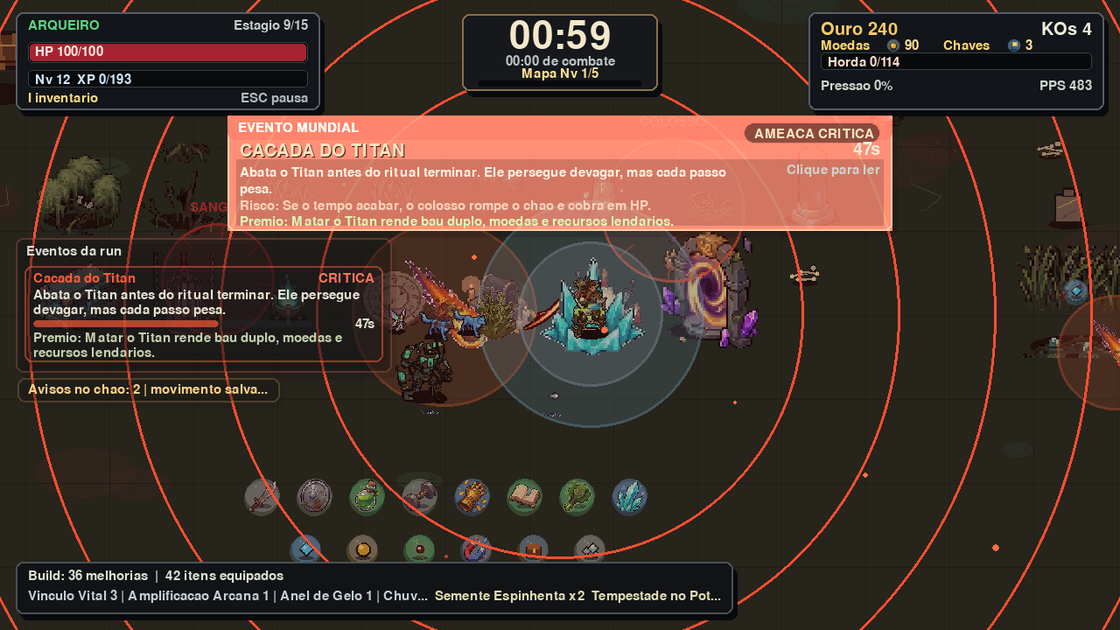
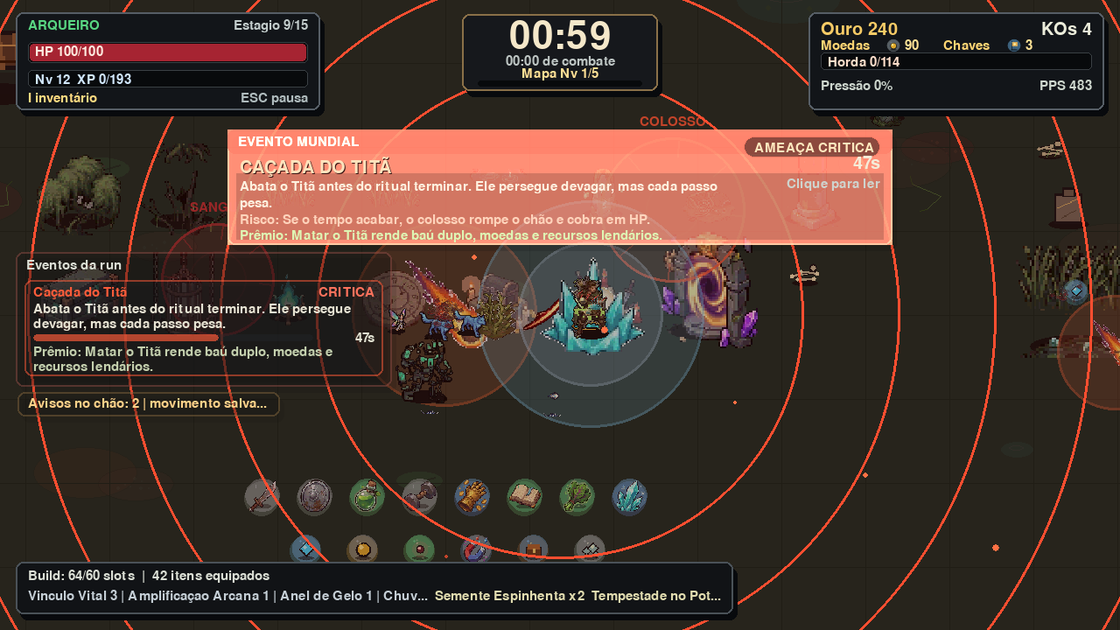
Refresh public v1.1 release presentation

Changed region(s): [[0.0, 0.181, 0.8125, 0.6635], [0.0625, 0.9048, 0.25, 0.9349], [0.0625, 0.1508, 0.0938, 0.181]]

diff --git a/README.md b/README.md
@@ -23,6 +23,21 @@ Esta versão melhora a leitura e o ritmo da run, com saída de dungeon mais fác
 de localizar, Berserker mais inteligente, limite de build em 60 slots únicos e
 mais proteção para as lendárias da classe.
 
+### O que mudou na 1.1
+
+- **Textos revisados:** menus, eventos, vendedor, inventário, level-up e tela de
+  morte passaram por revisão de ortografia e acentuação.
+- **Berserker mais inteligente:** o Guerreiro caça melhor, evita ativar em
+  momentos vazios e pressiona criaturas grandes com mais decisão.
+- **Dungeons mais legíveis:** a saída ficou maior, mais brilhante e mais fácil
+  de encontrar quando a tela está cheia de monstros.
+- **Build mais controlada:** o limite agora é de 60 slots únicos; melhorar uma
+  habilidade já escolhida não ocupa novos slots.
+- **Lendárias protegidas:** o limite de build reserva espaço para as lendárias
+  da própria classe.
+- **Pasta de jogador limpa:** a build vem com executável, atalho, ícone e
+  `LEIA-ME.txt`, sem arquivos de desenvolvimento.
+
 ## Preview
 
 ![Gameplay preview](media/gameplay-preview.gif)
@@ -39,7 +54,7 @@ mais proteção para as lendárias da classe.
 
 | Arqueiro | Invocador |
 | --- | --- |
-| ![Arqueiro em combate](media/screenshots/archer-field.png) | ![Invocador em evento titanico](media/screenshots/summoner-titan-event.png) |
+| ![Arqueiro em combate](media/screenshots/archer-field.png) | ![Invocador em evento titânico](media/screenshots/summoner-titan-event.png) |
 
 | Level-up | Vendedor |
 | --- | --- |
@@ -68,14 +83,14 @@ https://github.com/Leninn-Marinho-Rodrigues/lendas-contra-hordas/releases/downlo
 
 1. Clique no link de download acima.
 2. Aguarde o arquivo `.zip` baixar. Ele tem cerca de 412 MB.
-3. Clique com o botao direito no arquivo baixado e escolha **Extrair tudo**.
-4. Abra a pasta extraida.
+3. Clique com o botão direito no arquivo baixado e escolha **Extrair tudo**.
+4. Abra a pasta extraída.
 5. Dê dois cliques em `Jogar Lendas Contra Hordas.lnk`.
 6. Se o atalho não abrir no seu Windows, execute `LendasContraHordas.exe`.
 
-Se o Windows mostrar aviso do SmartScreen, clique em **Mais informacoes** e
+Se o Windows mostrar aviso do SmartScreen, clique em **Mais informações** e
 depois em **Executar mesmo assim**. Isso pode acontecer porque a build de teste
-ainda nao possui assinatura digital.
+ainda não possui assinatura digital.
 
 ### Como atualizar sem perder progresso
 
@@ -98,15 +113,15 @@ app_icon.ico
 
 Não é necessário instalar Python, abrir terminal ou baixar arquivos paralelos.
 
-### Baixar pela pagina de Releases
+### Baixar pela página de Releases
 
-Tambem da para baixar pela pagina da release:
+Também dá para baixar pela página da release:
 
 ```text
 https://github.com/Leninn-Marinho-Rodrigues/lendas-contra-hordas/releases/tag/v1.1
 ```
 
-Nessa pagina, abra a area **Assets** e baixe:
+Nessa página, abra a área **Assets** e baixe:
 
 ```text
 LendasContraHordas-Windows-v1.1.zip
@@ -124,45 +139,45 @@ LendasContraHordas-Windows-v1.1.zip
 
 ## Feedback dos jogadores
 
-Se voce testar o jogo, seu feedback ajuda muito.
+Se você testar o jogo, seu feedback ajuda muito.
 
 ### Como enviar feedback pelo GitHub
 
-1. Entre na pagina de feedback:
+1. Entre na página de feedback:
 
 ```text
 https://github.com/Leninn-Marinho-Rodrigues/lendas-contra-hordas/issues
 ```
 
-2. Clique no botao verde **New issue**.
+2. Clique no botão verde **New issue**.
 3. Escolha um modelo:
 
-- **Playtest feedback**: conte como foi sua experiencia jogando.
+- **Playtest feedback**: conte como foi sua experiência jogando.
 - **Bug report**: relate travamentos, erros, textos cortados ou sprites estranhos.
-- **Sugestao**: mande ideias de habilidades, monstros, balanceamento ou melhorias.
+- **Sugestão**: mande ideias de habilidades, monstros, balanceamento ou melhorias.
 
 4. Preencha os campos do modelo.
-5. Se puder, anexe print ou video curto arrastando o arquivo para a caixa de texto.
+5. Se puder, anexe print ou vídeo curto arrastando o arquivo para a caixa de texto.
 6. Clique em **Submit new issue**.
 
 ### O que escrever no feedback
 
-O feedback mais util costuma responder:
+O feedback mais útil costuma responder:
 
-- qual classe voce jogou;
+- qual classe você jogou;
 - quanto tempo sobreviveu;
-- se o jogo ficou facil, dificil ou confuso;
+- se o jogo ficou fácil, difícil ou confuso;
 - se algum texto ficou cortado;
 - se algum sprite, som ou efeito pareceu estranho;
-- prints ou videos curtos, se puder mandar.
+- prints ou vídeos curtos, se puder mandar.
 
 Exemplo simples:
 
 ```text
 Joguei de Mago por 9 minutos no mapa inicial.
-Gostei das magias e dos efeitos, mas achei a dungeon comum dificil cedo demais.
+Gostei das magias e dos efeitos, mas achei a dungeon comum difícil cedo demais.
 O texto do evento ficou um pouco grande na tela.
-Nao travou no meu PC.
+Não travou no meu PC.
 ```
 
 Guia completo:
@@ -173,15 +188,15 @@ https://github.com/Leninn-Marinho-Rodrigues/lendas-contra-hordas/blob/main/docs/
 
 ## Apoie o projeto
 
-Lendas contra Hordas esta sendo feito por uma pessoa so, no tempo livre. Se
-voce gostou do projeto e quiser ajudar a manter as atualizacoes, pode apoiar via
+Lendas contra Hordas está sendo feito por uma pessoa só, no tempo livre. Se
+você gostou do projeto e quiser ajudar a manter as atualizações, pode apoiar via
 Pix:
 
 ```text
 leninn.works@gmail.com
 ```
 
-Qualquer apoio ajuda com tempo de desenvolvimento, testes, arte, audio,
+Qualquer apoio ajuda com tempo de desenvolvimento, testes, arte, áudio,
 ferramentas e futuras builds.
 
 ## Status

diff --git a/docs/como-dar-feedback.md b/docs/como-dar-feedback.md
@@ -2,7 +2,7 @@
 
 Obrigado por testar **Lendas contra Hordas**.
 
-O jogo ainda esta em desenvolvimento, entao feedback de jogadores ajuda muito a
+O jogo ainda está em desenvolvimento, então feedback de jogadores ajuda muito a
 decidir o que melhorar primeiro.
 
 ## Onde mandar feedback
@@ -17,23 +17,23 @@ https://github.com/Leninn-Marinho-Rodrigues/lendas-contra-hordas/issues
 
 1. Abra o link de Issues.
 2. Clique em **New issue**.
-3. Escolha um dos modelos disponiveis.
+3. Escolha um dos modelos disponíveis.
 4. Escreva seu relato.
-5. Anexe prints ou videos se tiver.
+5. Anexe prints ou vídeos se tiver.
 6. Clique em **Submit new issue**.
 
 ## Qual modelo escolher?
 
 ### Playtest feedback
 
-Use quando voce jogou uma partida e quer contar como foi a experiencia.
+Use quando você jogou uma partida e quer contar como foi a experiência.
 
 Exemplos:
 
-- "Achei o inicio muito facil."
-- "A dungeon ficou dificil demais."
+- "Achei o início muito fácil."
+- "A dungeon ficou difícil demais."
 - "Gostei do Guerreiro, mas o Mago pareceu fraco."
-- "O evento titanico foi legal, mas nao entendi o objetivo."
+- "O evento titânico foi legal, mas não entendi o objetivo."
 
 ### Bug report
 
@@ -42,16 +42,16 @@ Use quando algo quebrou, travou ou parece errado.
 Exemplos:
 
 - jogo fechou sozinho;
-- sprite ficou invisivel;
+- sprite ficou invisível;
 - texto ficou cortado;
 - som estourou;
-- botao nao funcionou;
-- item nao fez efeito;
+- botão não funcionou;
+- item não fez efeito;
 - habilidade mostrou icone errado.
 
-### Sugestao
+### Sugestão
 
-Use quando voce tem uma ideia nova.
+Use quando você tem uma ideia nova.
 
 Exemplos:
 
@@ -61,7 +61,7 @@ Exemplos:
 - ajuste de dificuldade;
 - melhoria de HUD;
 - ideia para dungeon;
-- melhoria de som ou musica.
+- melhoria de som ou música.
 
 ## O que mais ajuda no feedback?
 
@@ -87,13 +87,13 @@ Tempo: 11 minutos
 Gostei bastante das flechas ricocheteando e dos drops.
 Achei que depois de 8 minutos veio monstro demais de uma vez.
 O evento da Lua Vermelha ficou legal, mas a tela ficou carregada.
-Nao tive travamento.
+Não tive travamento.
 
-Sugestao: deixar o aviso do evento aparecer 2 segundos antes dos monstros
-ficarem mais rapidos.
+Sugestão: deixar o aviso do evento aparecer 2 segundos antes dos monstros
+ficarem mais rápidos.
 ```
 
-## Como anexar print ou video
+## Como anexar print ou vídeo
 
 Na tela de escrever a Issue, arraste o arquivo para dentro da caixa de texto.
 O GitHub faz o upload automaticamente e coloca o link no comentario.
@@ -107,17 +107,17 @@ Prints que ajudam:
 - tela de vendedor;
 - erro do Windows, se aparecer.
 
-Videos curtos tambem ajudam muito quando o problema envolve movimento,
+Vídeos curtos também ajudam muito quando o problema envolve movimento,
 travamento, habilidade ou som.
 
-## Se voce nao tiver conta no GitHub
+## Se você não tiver conta no GitHub
 
-Voce pode mandar o feedback para quem te enviou o jogo e pedir para a pessoa
+Você pode mandar o feedback para quem te enviou o jogo e pedir para a pessoa
 abrir uma Issue no GitHub com seu relato.
 
 ## Apoio ao projeto
 
-O jogo e feito por uma pessoa so. Se quiser apoiar o desenvolvimento:
+O jogo é feito por uma pessoa só. Se quiser apoiar o desenvolvimento:
 
 ```text
 Pix: leninn.works@gmail.com

diff --git a/RELEASE_NOTES.md b/RELEASE_NOTES.md
@@ -2,11 +2,15 @@
 
 ## Versão 1.1
 
-Esta atualização publica a build atual do jogo com foco em leitura, ritmo e
-regras de progressão.
+Esta atualização substitui a build pública anterior da vitrine por uma versão
+mais clara para jogar e mais organizada para baixar. O foco principal foi
+leitura de textos, progressão de build, comportamento do Berserker e apresentação
+do projeto no GitHub.
 
 ### Principais mudanças desde a vitrine anterior
 
+- Revisão ortográfica de textos visíveis no jogo: menus, cards de classe,
+  eventos, vendedor, inventário, level-up, atributos e tela de morte.
 - Saída da dungeon maior, mais brilhante e com marcador de direção.
 - Berserker do Guerreiro com IA melhor para caçar, priorizar Titans e prender
   inimigos grandes nos cantos do mapa.
@@ -19,6 +23,17 @@ regras de progressão.
 - Item novo coletado com build cheia vira ouro.
 - Vendedor não cobra item único se a build estiver cheia.
 - Pasta jogável organizada com atalho, executável, ícone e LEIA-ME.
+- Galeria e GIF de gameplay atualizados para representar a build 1.1.
+
+### Comparação rápida
+
+| Antes | Agora na 1.1 |
+| --- | --- |
+| Textos sem revisão completa | Textos principais revisados com acentos e clareza |
+| Saída de dungeon menos evidente | Portal maior, mais brilhante e sinalizado |
+| Berserker podia gastar ativação em momento ruim | Berserker avalia melhor o mapa e prioriza alvos relevantes |
+| Build podia ficar confusa com repetição de melhorias | 60 slots únicos, com lendárias da classe protegidas |
+| Página pública mais simples | README, changelog, prints e GIF explicam melhor a versão |
 
 ### Arquivo de download
 

diff --git a/CHANGELOG.md b/CHANGELOG.md
@@ -39,8 +39,18 @@ As versões públicas seguem uma numeração simples:
 ### Interface e leitura
 
 - HUD da build agora mostra `Build: X/60 slots`.
+- Revisão ortográfica dos textos principais do jogo, incluindo menus, eventos,
+  cards de classe, inventário, vendedor e tela de morte.
+- `LEIA-ME.txt` do pacote jogável foi revisado com instruções mais claras de
+  abertura, controles e atualização sem perder save.
 - Textos e instruções públicas de download foram simplificados.
 - Pasta de jogador organizada para abrir pelo atalho.
+
+### Vitrine pública
+
+- Prints da galeria e GIF de gameplay atualizados com a build 1.1 revisada.
+- README reorganizado para explicar melhor as melhorias desta versão.
+- Release notes ampliadas para comparar a versão 1.1 com a vitrine anterior.
 
 ## Public Showcase v0.1.0 - 2026-05-12
 
